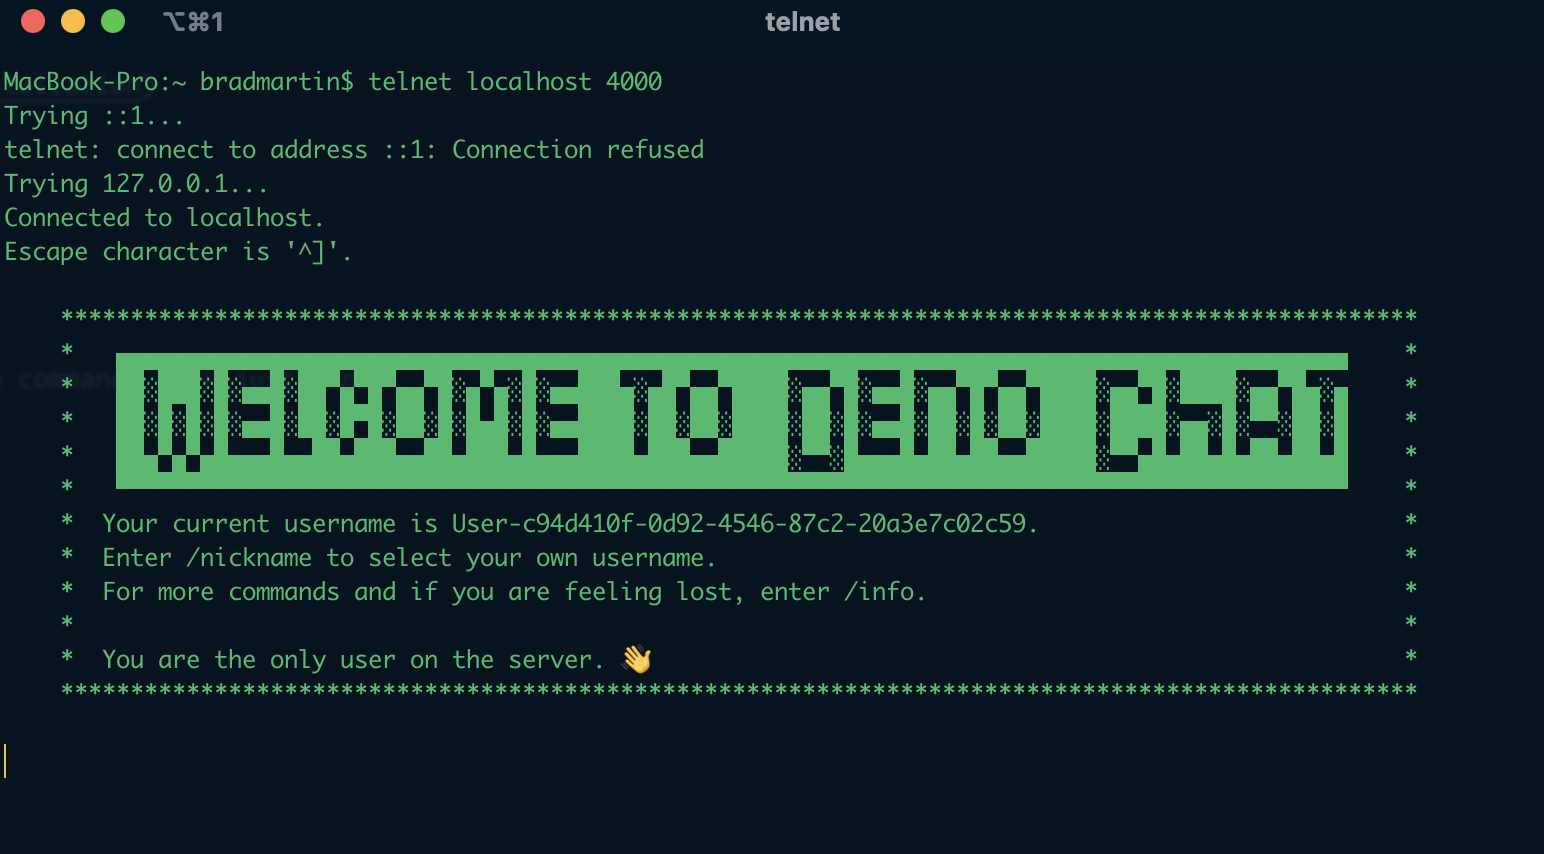
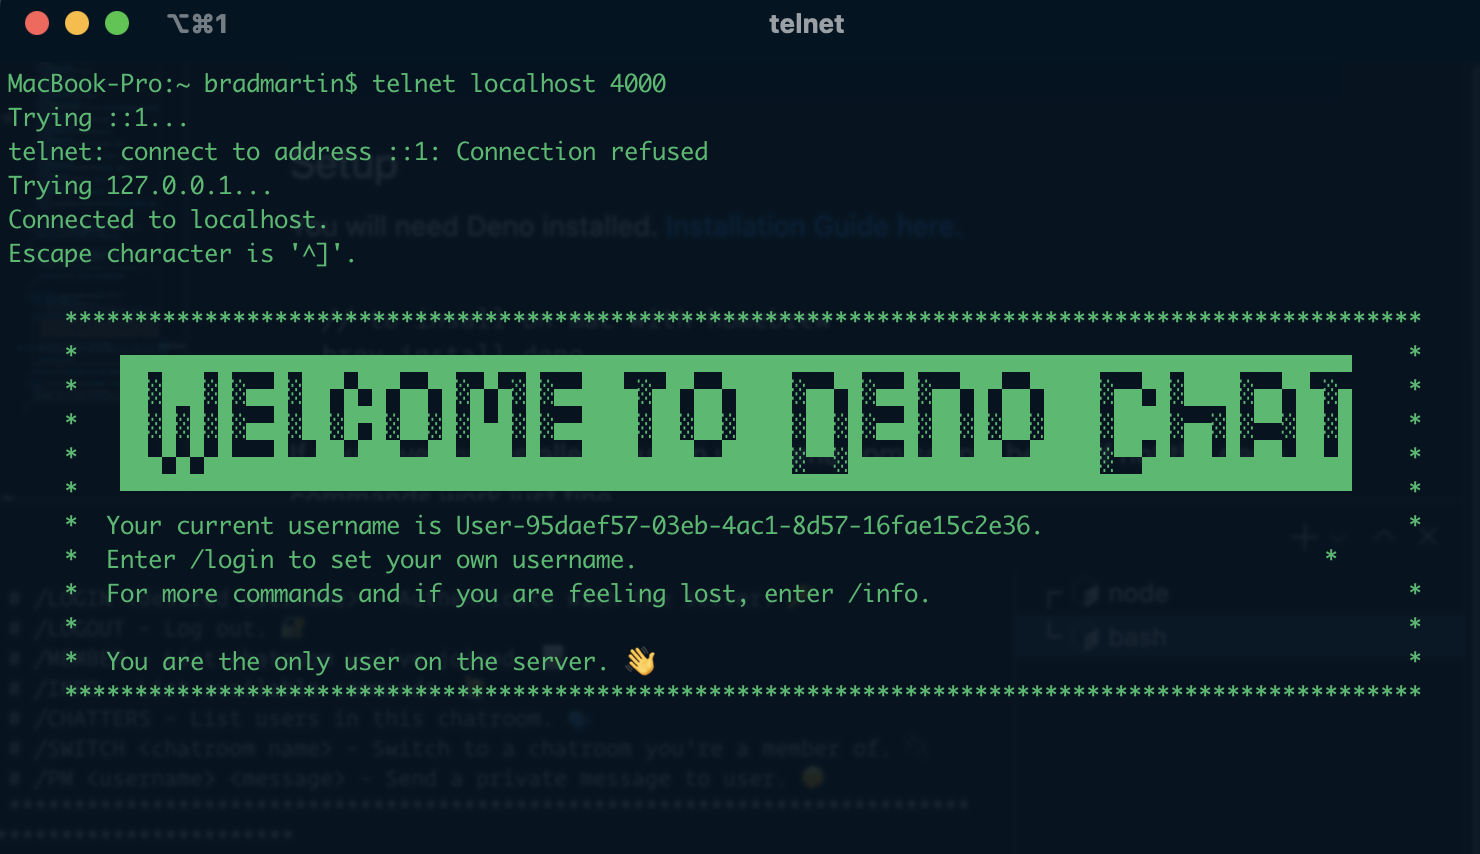
update image

diff --git a/src/server.ts b/src/server.ts
@@ -240,7 +240,7 @@ export class Server extends EventEmitter {
     *   ██▄▀▄▀▄█▄▄▄█▄▄██▄███▄▄██▄███▄█▄▄▄████▄███▄▄█████░▀▀░█▄▄▄█▄██▄██▄▄█████░▀▀▄█▄██▄█▄██▄██▄█    *
     *   ▀▀▀▀▀▀▀▀▀▀▀▀▀▀▀▀▀▀▀▀▀▀▀▀▀▀▀▀▀▀▀▀▀▀▀▀▀▀▀▀▀▀▀▀▀▀▀▀▀▀▀▀▀▀▀▀▀▀▀▀▀▀▀▀▀▀▀▀▀▀▀▀▀▀▀▀▀▀▀▀▀▀▀▀▀▀▀▀    *
     *  Your current username is ${user.name}.                          * 
-    *  Enter /nickname to select your own username.                                                 *
+    *  Enter /login to set your own username.                                                 *
     *  For more commands and if you are feeling lost, enter /info.                                  *
     *                                                                                               *
     *  ${userCountString}
